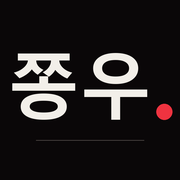
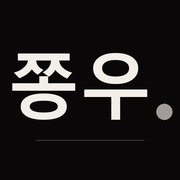
색 의미 통일(빨강=+·매수, 파랑=-·매도), 06 성과: 규칙(상위)>항목(하위) 표, 2000~2026.10 연평균 수익률 꺾은선 그래프, 아이콘 점 색 중립화 (앱 버전 23)

Changed region(s): [[0.8611, 0.5556, 0.9722, 0.6667]]

diff --git a/docs/index.html b/docs/index.html
@@ -20,25 +20,25 @@
      기존 변수 이름(--card, --text, --muted …)은 JS가 쓰고 있어서 그대로 두고 값만 바꿨습니다. */
   :root {
     --bg: #f4f1ea; --card: #e8e4da; --field: #dfdacd; --text: #0a0708; --muted: #4a4441; --faint: #6b6460; --line: #d8d3c7; --line2: #b3aa99;
-    --sell: #96101c; --sell-bg: #ecdcd3; --buy: #0d7096; --buy-bg: #d9e4e1; --hold: #6b6460; --hold-bg: #e3dfd3;
-    --accent: #a50e1a; --accent2: #0d7096; --zone-sell: rgba(150,16,28,.12); --zone-buy: rgba(13,112,150,.12);
-    --qld: #0d7096; --usd: #7a5c0e; --peak: #7a5c0e; --now: #96101c;
+    --sell: #0d7096; --sell-bg: #d6e3e8; --buy: #96101c; --buy-bg: #ecdcd3; --hold: #6b6460; --hold-bg: #e3dfd3;
+    --accent: #0a0708; --accent2: #0a0708; --zone-sell: rgba(13,112,150,.12); --zone-buy: rgba(150,16,28,.12);
+    --qld: #0a0708; --usd: #7a5c0e; --peak: #7a5c0e; --now: #0a0708;
     --on-accent: #f2efe9; --on-zone: #f2efe9; --shadow: rgba(10,7,8,.13);
   }
   :root[data-theme="dark"] {
     --bg: #0a0708; --card: #1d1819; --field: #2a2426; --text: #f2efe9; --muted: #a39b98; --faint: #8a8380; --line: #2a2426; --line2: #4a4441;
-    --sell: #ef3340; --sell-bg: #2a1417; --buy: #2a8fbe; --buy-bg: #11242e; --hold: #8a8380; --hold-bg: #231e1f;
-    --accent: #a50e1a; --accent2: #2a8fbe; --zone-sell: rgba(239,51,64,.16); --zone-buy: rgba(42,143,190,.16);
-    --qld: #2a8fbe; --usd: #e8b33a; --peak: #e8b33a; --now: #ef3340;
-    --on-accent: #f2efe9; --on-zone: #0a0708; --shadow: rgba(0,0,0,.5);
+    --sell: #2a8fbe; --sell-bg: #11242e; --buy: #ef3340; --buy-bg: #2a1417; --hold: #8a8380; --hold-bg: #231e1f;
+    --accent: #f2efe9; --accent2: #f2efe9; --zone-sell: rgba(42,143,190,.18); --zone-buy: rgba(239,51,64,.18);
+    --qld: #f2efe9; --usd: #e8b33a; --peak: #e8b33a; --now: #f2efe9;
+    --on-accent: #0a0708; --on-zone: #0a0708; --shadow: rgba(0,0,0,.5);
   }
   @media (prefers-color-scheme: dark) {
     :root:not([data-theme="light"]):not([data-theme="dark"]) {
       --bg: #0a0708; --card: #1d1819; --field: #2a2426; --text: #f2efe9; --muted: #a39b98; --faint: #8a8380; --line: #2a2426; --line2: #4a4441;
-      --sell: #ef3340; --sell-bg: #2a1417; --buy: #2a8fbe; --buy-bg: #11242e; --hold: #8a8380; --hold-bg: #231e1f;
-      --accent: #a50e1a; --accent2: #2a8fbe; --zone-sell: rgba(239,51,64,.16); --zone-buy: rgba(42,143,190,.16);
-      --qld: #2a8fbe; --usd: #e8b33a; --peak: #e8b33a; --now: #ef3340;
-      --on-accent: #f2efe9; --on-zone: #0a0708; --shadow: rgba(0,0,0,.5);
+      --sell: #2a8fbe; --sell-bg: #11242e; --buy: #ef3340; --buy-bg: #2a1417; --hold: #8a8380; --hold-bg: #231e1f;
+      --accent: #f2efe9; --accent2: #f2efe9; --zone-sell: rgba(42,143,190,.18); --zone-buy: rgba(239,51,64,.18);
+      --qld: #f2efe9; --usd: #e8b33a; --peak: #e8b33a; --now: #f2efe9;
+      --on-accent: #0a0708; --on-zone: #0a0708; --shadow: rgba(0,0,0,.5);
     }
   }
   :root {
@@ -55,7 +55,7 @@
   header img { width: 36px; height: 36px; border-radius: 2px; flex: none; }
   header > div { min-width: 0; }
   h1 { font: 900 24px/1.1 var(--f-disp); letter-spacing: -.02em; margin: 0; white-space: nowrap; }
-  .dot { color: var(--sell); }
+  .dot { color: var(--faint); }
   .sub { color: var(--faint); font: 400 11px/1.5 var(--f-mono); letter-spacing: .02em; margin-top: 3px; }
   .card { background: var(--card); border: 1px solid var(--line); border-radius: 2px; padding: 18px 16px; margin: 14px 0; }
   .state { border-top: 4px solid var(--hold); }
@@ -67,7 +67,7 @@
   .action { font: 700 17px/1.45 var(--f-text); margin-top: 14px; text-wrap: pretty; }
   .meta { color: var(--muted); font-size: 13px; margin-top: 12px; padding-top: 12px; border-top: 1px solid var(--line); }
   h2 { font: 800 17px/1.3 var(--f-disp); letter-spacing: -.01em; margin: 0 0 12px; color: var(--text); display: flex; align-items: baseline; gap: 10px; flex-wrap: wrap; text-wrap: balance; }
-  h2 .idx { font: 400 11px/1 var(--f-mono); letter-spacing: .2em; color: var(--sell); }
+  h2 .idx { font: 400 11px/1 var(--f-mono); letter-spacing: .2em; color: var(--text); }
   h3 { font: 700 13px/1.4 var(--f-text); margin: 18px 0 6px; color: var(--muted); }
   .note { color: var(--muted); font-size: 13px; margin-top: 8px; text-wrap: pretty; }
   .hidden { display: none !important; }
@@ -79,10 +79,10 @@
   button { font: 700 15px/1.2 var(--f-text); background: var(--accent); color: var(--on-accent); border: 0; border-radius: 2px; padding: 14px 16px; width: 100%; cursor: pointer;
            transition: background .32s var(--ease), color .18s var(--ease), border-color .18s var(--ease); }
   button.secondary { background: transparent; color: var(--text); border: 1px solid var(--line2); margin-top: 8px; }
-  button:focus-visible, input:focus-visible, select:focus-visible { outline: 2px solid var(--sell); outline-offset: 2px; }
-  @media (hover: hover) { button:hover { background: var(--text); color: var(--bg); } button.secondary:hover { background: transparent; color: var(--sell); border-color: var(--sell); } }
+  button:focus-visible, input:focus-visible, select:focus-visible { outline: 2px solid var(--text); outline-offset: 2px; }
+  @media (hover: hover) { button:hover { background: var(--muted); color: var(--bg); } button.secondary:hover { background: transparent; color: var(--muted); border-color: var(--muted); } }
   input, select { font: 400 16px/1.3 var(--f-text); width: 100%; padding: 10px 12px; border-radius: 2px; border: 1px solid var(--line2); background: transparent; color: var(--text); min-height: 46px; transition: border-color .18s var(--ease); }
-  input:focus, select:focus { border-color: var(--sell); outline-offset: 0; }
+  input:focus, select:focus { border-color: var(--text); outline-offset: 0; }
   label.field { display: block; font-size: 13px; color: var(--muted); margin: 12px 0 5px; }
   textarea { width: 100%; min-height: 110px; font: 12px/1.5 var(--f-mono); border-radius: 2px; border: 1px solid var(--line2); background: transparent; color: var(--text); padding: 8px; margin-top: 10px; }
   footer { color: var(--faint); font-size: 12px; text-align: center; margin-top: 22px; text-wrap: balance; }
@@ -253,7 +253,7 @@
   .card { border-top: 2px solid var(--text); padding: 28px 0 8px; margin-top: 80px; }
   .card.hero { border-top: 0; padding-top: 40px; margin-top: 0; }
   h2 { font: 900 22px/1.2 var(--f-disp); letter-spacing: -.02em; margin: 0 0 36px; align-items: baseline; gap: 14px; }
-  h2 .idx { font: 900 34px/1 var(--f-disp); letter-spacing: -.03em; color: var(--sell); }
+  h2 .idx { font: 900 34px/1 var(--f-disp); letter-spacing: -.03em; color: var(--text); }
   h2 .tag { align-self: center; }
 
   /* ===== 구역 구분: 구역마다 배경 띠(화면 끝까지) + 사이 간격 ===== */
@@ -268,8 +268,8 @@
 
   /* ===== 쫑지표 히어로 ===== */
   .card.hero { background: linear-gradient(180deg, var(--card) 0%, var(--bg) 100%); border-top: 3px solid var(--text); margin-top: 0; padding-top: 36px; }
-  .jcap { font: 400 11px/1 var(--f-mono); letter-spacing: .3em; color: var(--sell); display: flex; align-items: center; gap: 10px; }
-  .jnew { border: 1px solid var(--sell); border-radius: 2px; padding: 3px 6px; letter-spacing: .18em; font-size: 10px; }
+  .jcap { font: 400 11px/1 var(--f-mono); letter-spacing: .3em; color: var(--muted); display: flex; align-items: center; gap: 10px; }
+  .jnew { border: 1px solid var(--muted); border-radius: 2px; padding: 3px 6px; letter-spacing: .18em; font-size: 10px; }
   .jname { font: 900 28px/1.2 var(--f-disp); letter-spacing: -.03em; margin-top: 14px; }
   .jname span { font: 500 13px/1 var(--f-text); letter-spacing: 0; color: var(--muted); margin-left: 10px; }
   .jrow { display: flex; align-items: center; justify-content: space-between; gap: 20px; margin-top: 20px; }
@@ -297,7 +297,7 @@
   .legend2 div { padding: 10px 0; border-top: 1px solid var(--line2); }
   .legend2 div:last-child { border-bottom: 1px solid var(--line2); }
   .legend2 div { display: flex; gap: 14px; } .legend2 b { flex: none; min-width: 92px; }
-  .legend2 div:first-child b { color: var(--muted); } .legend2 div:last-child b { color: var(--sell); }
+  .legend2 div:first-child b { color: var(--muted); } .legend2 div:last-child b { color: var(--text); }
   .pfund { display: flex; align-items: baseline; gap: 12px; margin: 44px 0 14px; }
   .pfund b { font: 900 22px/1 var(--f-disp); letter-spacing: -.02em; }
   .pfund span { font: 400 12px/1 var(--f-mono); color: var(--faint); }
@@ -324,6 +324,32 @@
 
   table.acc td { text-align: right; } table.acc td:first-child { text-align: left; } table.acc td span { display: block; font: 400 11px/1.4 var(--f-mono); color: var(--faint); }
   table.acc th span { font-size: 10px; color: var(--faint); font-weight: 400; }
+
+  /* ===== 06 과거 성과 v23: 규칙(위 단계) > 항목(아래 단계) ===== */
+  .rules { display: grid; grid-template-columns: 1fr 1fr; gap: 0; border: 1px solid var(--line2); margin-bottom: 14px; }
+  .rules .rb { padding: 14px 14px 16px; } .rules .rb + .rb { border-left: 1px solid var(--line2); }
+  .rules .rb b { display: block; font: 800 16px/1.3 var(--f-text); margin-bottom: 4px; }
+  .rules .rb span { font-size: 12px; line-height: 1.55; color: var(--muted); }
+  .rules .rb.r { background: var(--field); } .rules .rb.r b { color: var(--text); text-decoration: underline; text-decoration-thickness: 2px; text-underline-offset: 4px; }
+  .subh { font: 800 17px/1.3 var(--f-disp); letter-spacing: -.01em; margin: 44px 0 16px; color: var(--text); }
+  .pcn { display: flex; align-items: baseline; gap: 12px; margin: 28px 0 8px; flex-wrap: wrap; }
+  .pcn b { font: 900 20px/1 var(--f-disp); } .pcn span { font-size: 12px; color: var(--muted); } .pcn i { font-style: normal; color: var(--faint); }
+  #perfCharts svg { height: auto; }
+  table.perf4 { width: 100%; border-collapse: collapse; font-size: 14px; }
+  .perf4 th { font: 700 12px/1.35 var(--f-text); color: var(--muted); text-align: center; padding: 0 4px 10px; border-left: 1px solid var(--line2); }
+  .perf4 th:first-child { text-align: left; border-left: 0; padding-left: 0; } .perf4 th:nth-child(2) { border-left: 0; }
+  .perf4 th.r { color: var(--text); font-weight: 900; box-shadow: inset 0 -2px 0 var(--text); }
+  .perf4 td { padding: 11px 6px; text-align: center; vertical-align: top; border-top: 1px dotted var(--line2); border-left: 1px solid var(--line2); font-variant-numeric: tabular-nums; line-height: 1.35; }
+  .perf4 tr.p1 td { border-top: 1px solid var(--line2); }
+  .perf4 td.per { text-align: left; padding-left: 0; border-left: 0; border-top: 1px solid var(--line2); width: 74px; }
+  .perf4 td.per b { font: 700 12px/1.3 var(--f-mono); }
+  .perf4 td.m { text-align: left; border-left: 0; color: var(--muted); font-size: 12px; padding-left: 4px; white-space: nowrap; }
+  .perf4 td.r { background: var(--field); font-weight: 800; }
+  .perf4 tr:last-child td { border-bottom: 1px solid var(--line2); }
+  .perf4 em { display: block; font: 600 11px/1.4 var(--f-mono); font-style: normal; margin-top: 2px; }
+  .perf4 em.up { color: var(--buy); } .perf4 em.down { color: var(--sell); }
+  .perf4 .fin { font: 400 11px/1.4 var(--f-mono); color: var(--faint); margin-top: 3px; font-weight: 400; }
+  .perf4 td.per .fin { margin-top: 4px; }
 
   @media (max-width: 360px) { .jscore { font-size: 76px; } h1 { font-size: 21px; } .form-row.three { grid-template-columns: 1fr; } }
 </style>
@@ -439,19 +465,28 @@
   <!-- 7. 과거 성과 -->
   <section class="card">
     <h2><span class="idx">06</span>과거 성과</h2>
-    <div class="legend2">
-      <div><b>적립식 (기준)</b><span>매월 첫 거래일에 정해 둔 금액만 사는 방식</span></div>
-      <div><b>쫑 규칙</b><span>적립식 + 쫑지표 신호로 매주 매도·매수</span></div>
+    <div class="rules">
+      <div class="rb"><b>적립식 규칙</b><span>매월 첫 거래일에 정해 둔 금액만 사요</span></div>
+      <div class="rb r"><b>쫑 규칙</b><span>적립식 규칙 + 쫑지표 신호로 매주 매도·매수</span></div>
     </div>
-    <dl class="defs">
-      <div><dt>구간</dt><dd>약 10년마다 새로 시작 · 시작 0원, 매월 100만원 · 세금·비용 반영</dd></div>
-      <div><dt>연평균</dt><dd>납입 시점을 반영한 1년 수익률</dd></div>
-      <div><dt>총수익률</dt><dd>(최종 금액 − 총 납입금) ÷ 총 납입금</dd></div>
-      <div><dt>하락 평균</dt><dd>전고점보다 10% 넘게 빠졌을 때의 평균 (아래 숫자는 그 횟수)</dd></div>
-      <div><dt>표시</dt><dd>세 자리는 10 단위, 네 자리 이상은 100 단위로 반올림</dd></div>
-    </dl>
-    <div class="key"><span class="ku">윗줄 · 적립식 (기준)</span><span class="kr">아랫줄 · 쫑 규칙</span></div>
+    <div class="note">시작 0원, 매월 100만원 · 세금·거래비용 반영</div>
+
+    <h3 class="subh">연평균 수익률 추이</h3>
+    <div class="seg" id="perfMode"><button data-m="irr" class="on">2000년부터 누적 연평균</button><button data-m="yr">연도별 수익률</button></div>
+    <div id="perfCharts"></div>
+    <div class="legend"><span><i class="sw" style="background:var(--faint)"></i>적립식 규칙</span><span><i class="sw" style="background:var(--text)"></i>쫑 규칙</span></div>
+    <div class="note" id="perfChartNote"></div>
+
+    <h3 class="subh">10년 구간별 비교</h3>
     <div id="perfBox"></div>
+    <details class="more first"><summary>표 보는 법</summary>
+      <dl class="defs">
+        <div><dt>구간</dt><dd>약 10년마다 새로 시작 (시작 0원)</dd></div>
+        <div><dt>연평균</dt><dd>납입 시점을 반영한 1년 수익률</dd></div>
+        <div><dt>총수익률</dt><dd>(최종 금액 − 총 납입금) ÷ 총 납입금</dd></div>
+        <div><dt>하락 평균</dt><dd>전고점보다 10% 넘게 빠졌을 때의 평균 (아래 숫자는 그 횟수)</dd></div>
+        <div><dt>반올림</dt><dd>세 자리는 10 단위, 네 자리 이상은 100 단위</dd></div>
+      </dl></details>
     <div class="note">큰 하락은 줄였지만, 꾸준히 오른 구간(QLD 2010~2019)에는 졌어요. QLD는 2006년 6월, USD는 2007년 2월 이전이 가상 가격이고, 마지막 구간은 6년 10개월입니다. 앞으로는 이보다 낮을 수 있어요.</div>
   </section>
 
@@ -498,7 +533,7 @@
     <div id="subMsg" class="note"></div>
   </section>
 
-  <footer>과거 시뮬레이션 기반 개인용 알림이며 투자 조언이 아닙니다.<br><span style="font-family:var(--f-mono);font-size:11px">앱 버전 22</span></footer>
+  <footer>과거 시뮬레이션 기반 개인용 알림이며 투자 조언이 아닙니다.<br><span style="font-family:var(--f-mono);font-size:11px">앱 버전 23</span></footer>
 </main>
 
 <script src="config.js"></script>
@@ -519,6 +554,12 @@ const PERF = {
     { p: "2010~2019", paid: 1.2, a: [31, 33], t: [420, 470], f: [6.2, 6.8], dd: [[-25, 16], [-23, 16]] },
     { p: "2020~2026.10", paid: 0.8, a: [64, 72], t: [730, 960], f: [6.8, 8.7], dd: [[-27, 18], [-21, 22]] } ] },
 };
+const PCH = {
+  years: ["2000", "2001", "2002", "2003", "2004", "2005", "2006", "2007", "2008", "2009", "2010", "2011", "2012", "2013", "2014", "2015", "2016", "2017", "2018", "2019", "2020", "2021", "2022", "2023", "2024", "2025", "2026.10"],
+  QLD: { dca_irr: [-90.0, -57.8, -59.4, -5.7, 2.2, 1.2, 2.4, 7.7, -22.9, -1.5, 4.3, 3.6, 7.3, 14.0, 16.1, 16.0, 15.5, 19.0, 16.8, 20.3, 23.7, 25.3, 17.5, 21.5, 22.4, 22.8, 23.7], rule_irr: [-85.2, -50.9, -51.4, -2.3, 6.0, 2.2, 2.0, 7.3, -7.4, 8.3, 13.1, 10.4, 12.6, 16.5, 17.6, 16.9, 16.3, 18.5, 18.0, 20.4, 23.8, 24.5, 20.3, 23.3, 23.7, 24.2, 24.5], dca_yr: [-74.3, -68.0, -68.5, 104.2, 15.2, -3.0, 5.2, 29.0, -72.9, 121.2, 36.9, 0.0, 34.8, 82.1, 37.6, 14.7, 10.0, 70.3, -8.3, 81.7, 88.9, 54.7, -60.5, 117.7, 42.8, 30.4, 38.1], rule_yr: [-67.7, -61.7, -57.1, 96.2, 20.3, -7.7, 1.8, 28.1, -46.7, 111.5, 44.1, -0.8, 33.0, 57.8, 34.4, 17.2, 15.6, 50.7, 13.9, 73.1, 88.9, 38.0, -25.1, 97.7, 38.7, 43.0, 25.4] },
+  USD: { dca_irr: [-91.7, -58.0, -75.1, -4.9, -17.2, -7.6, -10.1, -7.1, -44.7, -11.7, -5.7, -7.5, -8.1, 1.3, 8.2, 6.5, 10.5, 15.1, 11.1, 16.3, 19.1, 22.9, 13.7, 20.6, 24.7, 26.2, 28.3], rule_irr: [-87.1, -50.2, -70.4, -4.4, -11.4, -6.5, -10.7, -7.7, -23.2, -1.0, 3.9, 0.2, -1.8, 4.6, 10.1, 9.1, 12.5, 15.9, 14.6, 18.4, 21.0, 23.5, 18.9, 24.3, 27.7, 29.8, 31.3], dca_yr: [-63.8, -50.1, -79.8, 161.1, -35.5, 12.3, -16.1, 3.3, -79.8, 137.4, 19.4, -14.9, -10.2, 77.7, 78.1, -7.5, 56.8, 81.7, -26.9, 110.4, 68.2, 104.3, -68.6, 228.8, 139.6, 62.1, 73.4], rule_yr: [-55.5, -41.7, -75.3, 145.9, -24.0, 2.9, -21.1, 2.5, -54.6, 127.6, 29.9, -14.5, -9.6, 58.9, 68.2, 5.1, 60.5, 68.5, 1.5, 101.3, 68.2, 73.4, -30.4, 190.1, 129.5, 101.7, 60.8] },
+};
+let perfMode = "irr";
 const CW = 360;          // 차트 가로 크기(폰 화면 폭에 맞춰 글자가 줄어들지 않게)
 
 let D = null;           // data.json
@@ -554,15 +595,34 @@ function renderPerf() {
   const n = (x) => x.toLocaleString("ko-KR"), sg = (x) => (x > 0 ? "+" : "") + n(x);
   const diff = (a, b) => { const d = b - a; return `<em class="${d >= 0 ? "up" : "down"}">${d >= 0 ? "+" : ""}${d}%p</em>`; };
   $("perfBox").innerHTML = Object.entries(PERF).map(([f, o]) => {
-    const rows = o.rows.map((r) => `<tr>
-        <td><b>${r.p}</b><div class="fin">총 납입 ${r.paid}억</div></td>
-        <td><div class="u">${r.a[0]}%</div><div class="r">${r.a[1]}%</div>${diff(r.a[0], r.a[1])}</td>
-        <td><div class="u">${sg(r.t[0])}%</div><div class="r">${sg(r.t[1])}%</div><div class="fin">${r.f[0]}억 → ${r.f[1]}억</div></td>
-        <td><div class="u">${r.dd[0][0]}%</div><div class="r">${r.dd[1][0]}%</div><div class="fin">${r.dd[0][1]}번 → ${r.dd[1][1]}번</div></td></tr>`).join("");
+    const rows = o.rows.map((r) => `<tr class="p1"><td rowspan="3" class="per"><b>${r.p}</b><div class="fin">총 납입 ${r.paid}억</div></td><td class="m">연평균</td><td>${r.a[0]}%</td><td class="r">${r.a[1]}%${diff(r.a[0], r.a[1])}</td></tr>
+      <tr><td class="m">총수익률</td><td>${sg(r.t[0])}%<div class="fin">최종 ${r.f[0]}억</div></td><td class="r">${sg(r.t[1])}%<div class="fin">최종 ${r.f[1]}억</div></td></tr>
+      <tr><td class="m">하락 평균</td><td>${r.dd[0][0]}%<div class="fin">${r.dd[0][1]}번</div></td><td class="r">${r.dd[1][0]}%<div class="fin">${r.dd[1][1]}번</div></td></tr>`).join("");
     return `<div class="pfund"><b>${f}</b><span>${o.sub}</span></div>
-      <table class="perf3"><tr><th></th><th>연평균</th><th>총수익률<br><span>(최종 금액)</span></th><th>하락 평균<br><span>(10%↓ 횟수)</span></th></tr>${rows}</table>`;
+      <table class="perf4"><tr><th>구간</th><th></th><th>적립식 규칙</th><th class="r">쫑 규칙</th></tr>${rows}</table>`;
   }).join("");
+  drawPerf();
 }
+function drawPerf() {
+  const box = $("perfCharts"); if (!box) return;
+  const irr = perfMode === "irr", yrs = PCH.years, W = 360, H = 210, L = 38, R = 12, T = 16, B = 26, nn = yrs.length;
+  const lo = irr ? -50 : -80, hi = irr ? 40 : 140, x = (i) => L + (W - L - R) * i / (nn - 1), y = (v) => T + (H - T - B) * (1 - (v - lo) / (hi - lo));
+  const ticks = irr ? [-40, -20, 0, 20, 40] : [-50, 0, 50, 100];
+  box.innerHTML = ["QLD", "USD"].map((f) => {
+    const d = PCH[f], a = d[irr ? "dca_irr" : "dca_yr"], b = d[irr ? "rule_irr" : "rule_yr"];
+    let g = "";
+    ticks.forEach((v) => { g += `<line x1="${L}" x2="${W - R}" y1="${y(v)}" y2="${y(v)}" stroke="${cv(v === 0 ? "--muted" : "--line2")}" stroke-width="${v === 0 ? 1.2 : .7}" ${v === 0 ? "" : 'stroke-dasharray="3 4"'}/><text x="${L - 6}" y="${y(v) + 4}" font-size="11" text-anchor="end" fill="${cv("--muted")}">${v}%</text>`; });
+    [0, 5, 10, 15, 20].forEach((i) => { if (i < nn) g += `<text x="${x(i)}" y="${H - 6}" font-size="11" text-anchor="middle" fill="${cv("--muted")}">${yrs[i]}</text>`; });
+    g += `<text x="${x(nn - 1)}" y="${H - 6}" font-size="11" text-anchor="end" fill="${cv("--muted")}">26.10</text>`;
+    const path = (arr) => arr.map((v, i) => (i ? "L" : "M") + x(i).toFixed(1) + " " + y(v).toFixed(1)).join(" ");
+    g += `<defs><clipPath id="cp${f}"><rect x="${L}" y="${T}" width="${W - L - R}" height="${H - T - B}"/></clipPath></defs><g clip-path="url(#cp${f})"><path d="${path(a)}" fill="none" stroke="${cv("--faint")}" stroke-width="2" stroke-linejoin="round"/><path d="${path(b)}" fill="none" stroke="${cv("--text")}" stroke-width="2.8" stroke-linejoin="round"/></g>`;
+    const ea = a[nn - 1], eb = b[nn - 1], sgn1 = (v) => (v > 0 ? "+" : "") + Math.round(v) + "%";
+    g += `<circle cx="${x(nn - 1)}" cy="${y(ea)}" r="3.4" fill="${cv("--faint")}"/><circle cx="${x(nn - 1)}" cy="${y(eb)}" r="4" fill="${cv("--text")}"/>`;
+    return `<div class="pcn"><b>${f}</b><span>쫑 규칙 ${sgn1(eb)} · 적립식 규칙 ${sgn1(ea)} <i>(2026.10 기준)</i></span></div><svg viewBox="0 0 ${W} ${H}" role="img" aria-label="${f} 연평균 수익률 추이">${g}</svg>`;
+  }).join("");
+  $("perfChartNote").textContent = irr ? "2000년부터 지금까지 쌓은 돈 전체의 연평균 수익률이에요. 2000~2002년은 -50% 아래라 그래프 밖으로 나가요." : "해마다의 수익률이에요. 큰 하락이 있던 2000~2002, 2008, 2022년에 쫑 규칙이 덜 빠졌어요.";
+}
+$("perfMode").addEventListener("click", (e) => { const bt = e.target.closest("button"); if (!bt) return; perfMode = bt.dataset.m; [...$("perfMode").children].forEach((x) => x.classList.toggle("on", x === bt)); drawPerf(); });
 
 function init() {
   renderState();
@@ -777,10 +837,10 @@ function drawSpark() {
   let s = `<line x1="0" x2="${W}" y1="${y(0)}" y2="${y(0)}" stroke="${cv("--buy")}" stroke-dasharray="2 3" stroke-opacity=".8"/>`;
   s += `<line x1="0" x2="${W}" y1="${y(SELL_AT)}" y2="${y(SELL_AT)}" stroke="${cv("--sell")}" stroke-dasharray="2 3" stroke-opacity=".8"/>`;
   s += `<path d="${v.map((a, i) => (i ? "L" : "M") + x(i).toFixed(1) + " " + y(a).toFixed(1)).join(" ")}" fill="none" stroke="${cv("--text")}" stroke-width="1.8" stroke-linejoin="round"/>`;
-  s += `<circle cx="${x(v.length - 1)}" cy="${y(v[v.length - 1])}" r="3.6" fill="${cv("--now")}" stroke="${cv("--bg")}" stroke-width="1.6"/>`;
+  s += `<circle cx="${x(v.length - 1)}" cy="${y(v[v.length - 1])}" r="3.8" fill="${cv(D.state === "SELL" ? "--sell" : D.state === "BUY" ? "--buy" : "--hold")}" stroke="${cv("--bg")}" stroke-width="1.6"/>`;
   el.innerHTML = s;
 }
-function renderCharts() { if (D) { drawScore(); drawPrice(); drawSpark(); } }
+function renderCharts() { if (D) { drawScore(); drawPrice(); drawSpark(); drawPerf(); } }
 
 /* ---------- ① 점수 차트 ---------- */
 function drawScore() {

diff --git a/docs/sw.js b/docs/sw.js
@@ -1,7 +1,7 @@
 // Service worker for "쫑우 투자신호": offline fallback + push notifications.
 // Strategy: always try the network first (so a new version of the app and fresh data show up right away),
 // and use the saved copy only when the phone is offline.
-const CACHE = "signal-v22";
+const CACHE = "signal-v23";
 const SHELL = ["./", "index.html", "config.js", "manifest.json", "icon-192.png", "icon-512.png", "icon-180.png", "data.json", "prices.json"];
 
 self.addEventListener("install", (e) => {
